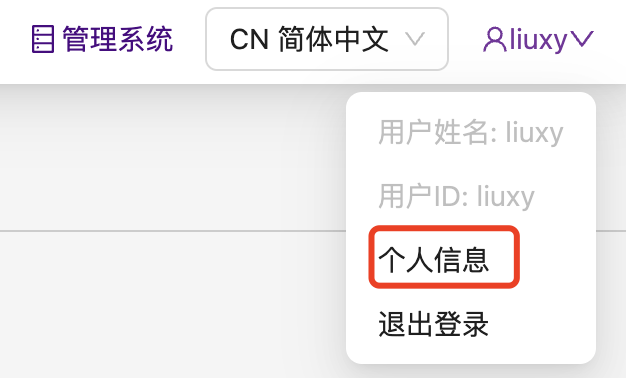
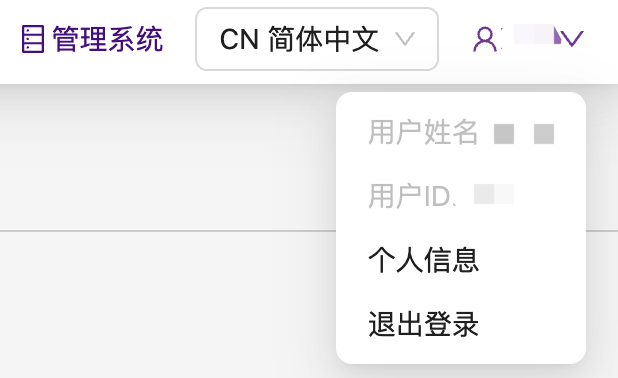
bash auto update

diff --git a/README.md b/README.md
@@ -36,25 +36,26 @@
 
 用户登录进系统后，注意看<u>**右上角**</u>的面板切换图标，如果显示“管理系统”，则说明现在处于**用户界面**，点击“管理系统”可以进入**管理系统**界面：
 <div  align="center">    
-<img src="image/dash_status1.png" width = "300" align=center />
+<img src="image/dash_status1.png" width = "224" align=center />
 </div>
 
 如果显示“SCOW HPC”，则说明现在处于**管理系统**界面，点击“SCOW HPC”可切换到**用户界面**：
 <div  align="center">    
-<img src="image/dash_status2.png" width = "320" align=center />
+<img src="image/dash_status2.png" width = "244" align=center />
 </div>
 
 **注意**：所有用户的超算界面相同，但不同权限的用户（普通用户、租户管理员、平台管理员、财务人员）的管理系统界面有所差异。
 
 #### 1.1.2 修改密码
 
-右上角
+点击右上角的用户账户，然后选择```个人信息```：
 <div  align="center">    
-<img src="image/chpasswd_step1.png" width = "320" align=center />
+<img src="image/chpasswd_step1.png" width = "310" align=center />
 </div>
 
+进入修改个人信息页面，选择```修改密码```即可：
 <div  align="center">    
-<img src="image/chpasswd_step2.png" width = "320" align=center />
+<img src="image/chpasswd_step2.png" width = "385" align=center />
 </div>
 
 
